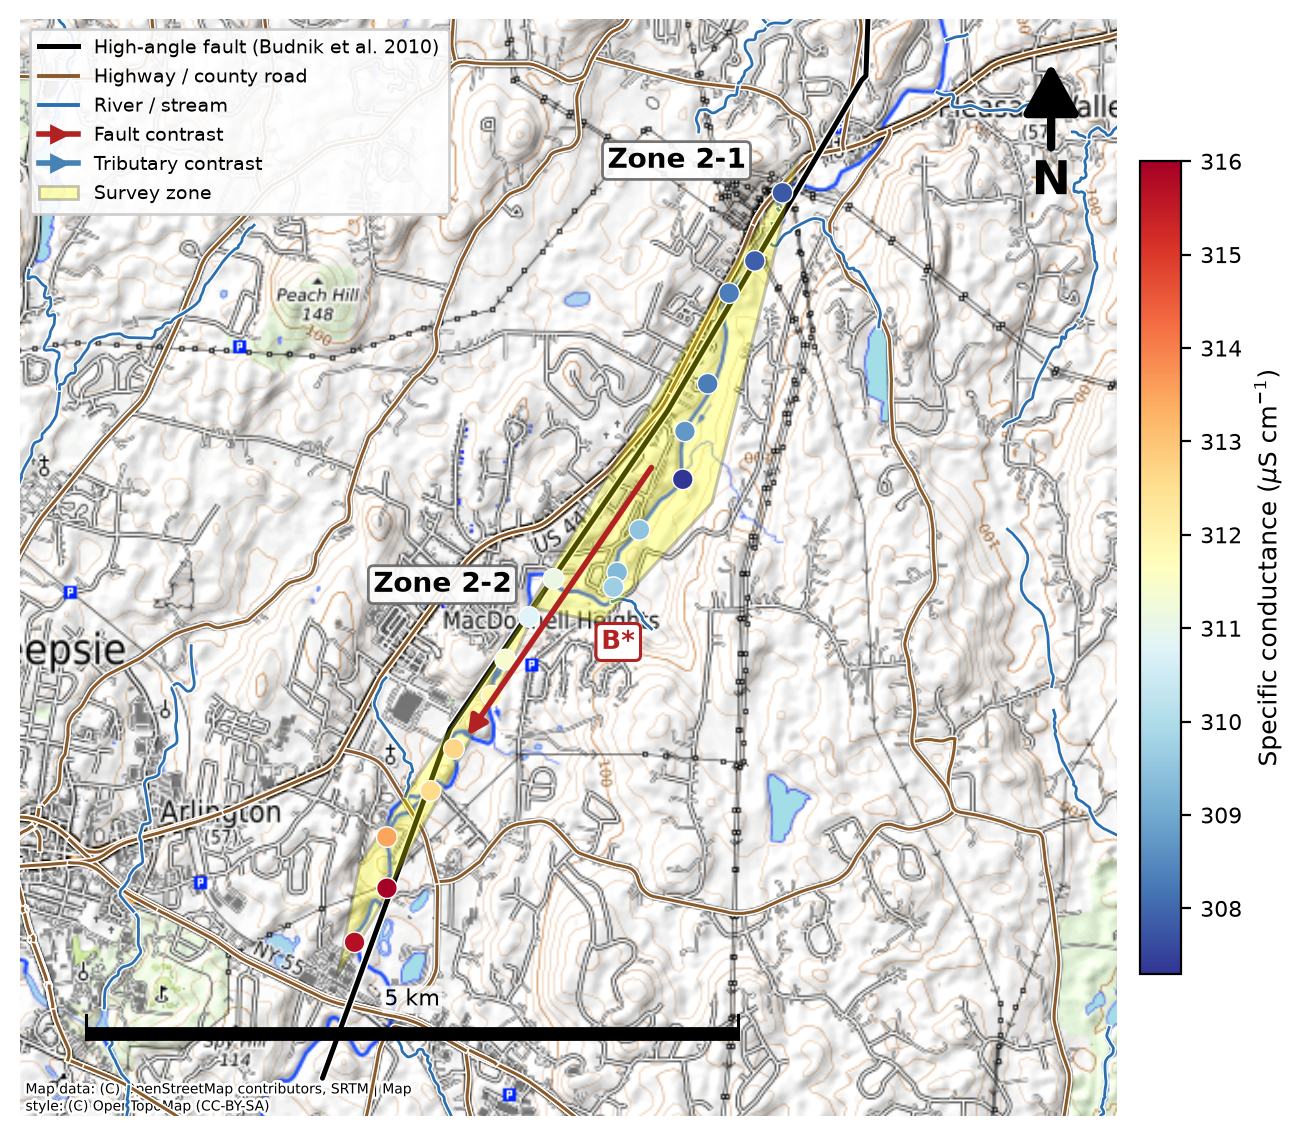
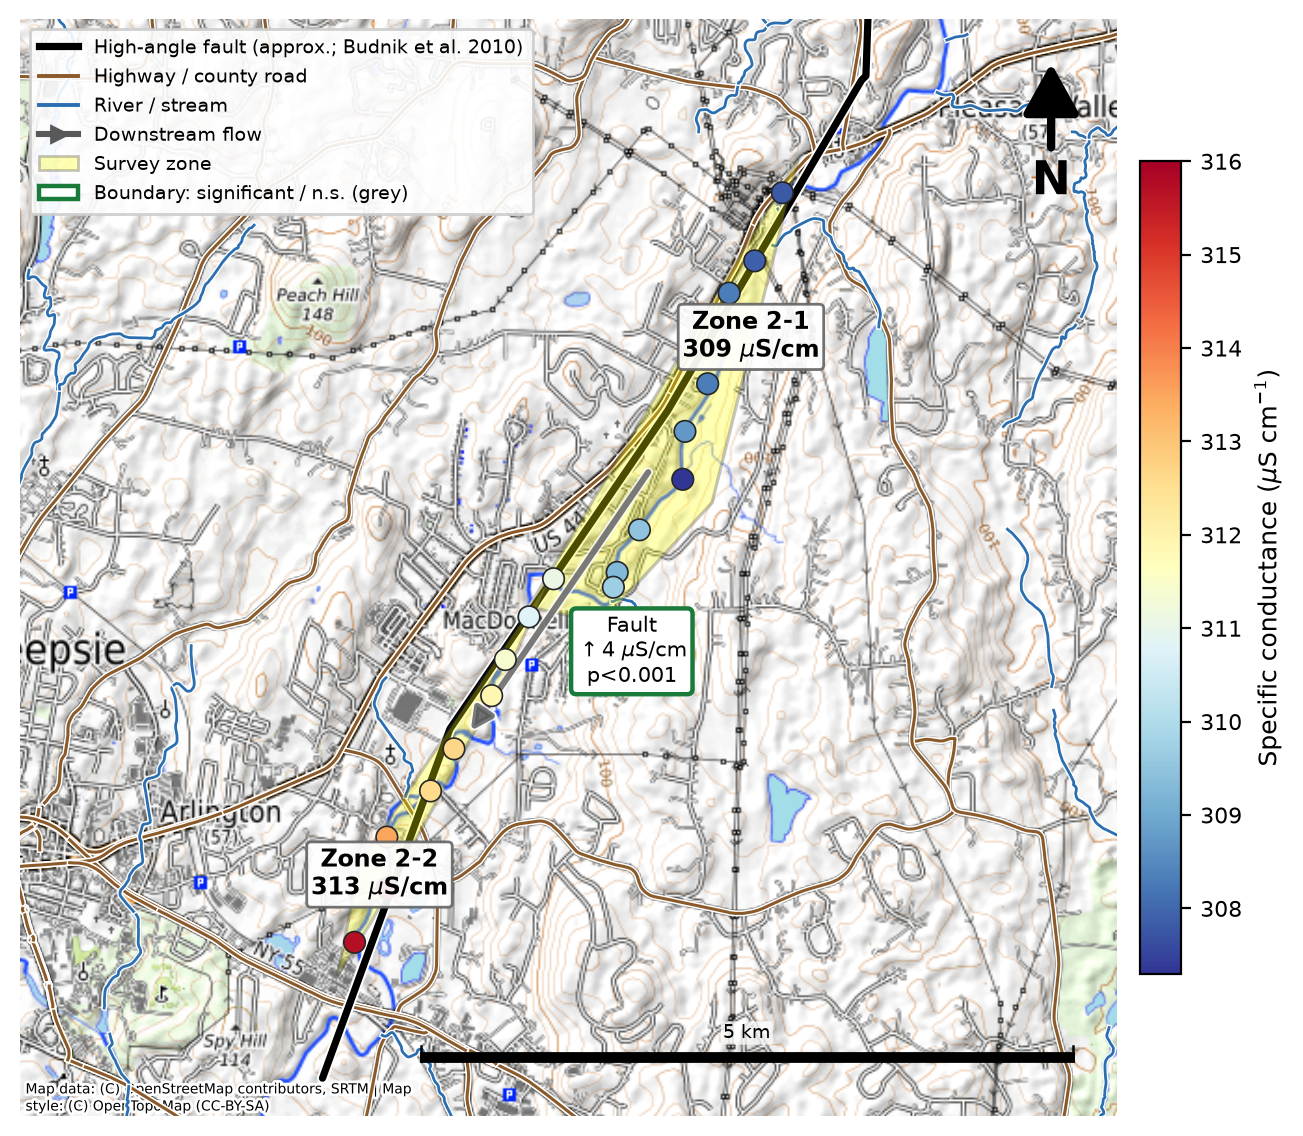
Site maps: clearer transitions, flow arrow, mean-EC labels, approximate faults
- Replace red/blue contrast arrows + cryptic "B*/Dn.s." codes with boxed
  boundary annotations stating the feature and the Welch result (delta EC + p;
  green outline = significant, grey = n.s.)
- Neutral grey downstream-flow arrow through the zones (decoupled from stats)
- Dots get a dark edge so mid-range (pale) colours stay visible on the terrain
- Zone labels splayed radially outward (fixes Site 3 overlap/clipping) and now
  show each zone's mean specific conductance
- Faults thicker and labelled "approximate" (legend + captions)
- Scale bar moved to bottom-right, smaller
- Rewrite site captions to match the new symbology

diff --git a/src/maps.py b/src/maps.py
@@ -131,25 +131,22 @@ def load_roads():
 
 
 def add_scalebar(ax, length_m, lat):
-    """Clean scale bar (bar + end ticks + label) sized to the axis extent.
-
-    ``length_m`` is a ground distance; it is drawn in Web-Mercator units,
-    correcting for the projection's latitude stretch.
-    """
+    """Small scale bar in the bottom-right corner (bar + end ticks + label)."""
     x0d, x1d = ax.get_xlim()
     y0d, y1d = ax.get_ylim()
     xr, yr = x1d - x0d, y1d - y0d
     w = length_m / math.cos(math.radians(lat))
-    x0 = x0d + 0.06 * xr
-    y0 = y0d + 0.07 * yr
-    th = 0.010 * yr
+    x1 = x1d - 0.04 * xr          # right-aligned
+    x0 = x1 - w
+    y0 = y0d + 0.05 * yr
+    th = 0.007 * yr
     ax.add_patch(plt.Rectangle((x0, y0), w, th, fc="black", ec="black", zorder=7))
     for xx in (x0, x0 + w):  # end ticks
-        ax.plot([xx, xx], [y0, y0 + 2.2 * th], color="black", lw=1.1, zorder=7)
+        ax.plot([xx, xx], [y0, y0 + 2.0 * th], color="black", lw=0.9, zorder=7)
     label = f"{length_m/1000:g} km" if length_m >= 1000 else f"{length_m:g} m"
-    ax.text(x0 + w / 2, y0 + 2.6 * th, label, ha="center", va="bottom",
-            fontsize=8, zorder=7,
-            bbox=dict(boxstyle="round,pad=0.12", fc="white", ec="none", alpha=0.75))
+    ax.text(x0 + w / 2, y0 + 2.4 * th, label, ha="center", va="bottom",
+            fontsize=7, zorder=7,
+            bbox=dict(boxstyle="round,pad=0.1", fc="white", ec="none", alpha=0.75))
 
 
 def north_arrow(ax):
@@ -163,7 +160,7 @@ def north_arrow(ax):
 
 
 def _round_scale(ground_half):
-    target = ground_half * 0.8
+    target = ground_half * 0.5  # ~25% of the map width -> compact bar
     for v in (100, 200, 500, 1000, 2000, 5000, 10000):
         if v >= target:
             return v
@@ -229,9 +226,11 @@ def _fault_line(ax, fault_pts, cx0, cy0, half):
     return True
 
 
-def draw_site(site, df, zframes, welch):
-    """Site map matching the overview style: OpenTopoMap terrain + TIGER roads
-    and rivers + traced Budnik faults + highlighted zones + EC-coloured dots."""
+def draw_site(site, df, zframes, cstats):
+    """Site map: OpenTopoMap terrain + TIGER roads/rivers + approximate Budnik
+    faults + highlighted zones (with mean EC) + EC-coloured dots. A neutral
+    grey arrow shows downstream flow; each boundary carries a box stating the
+    feature and the Welch t-test result (no cryptic codes)."""
     import pandas as pd
     import matplotlib.patheffects as pe
     zones = SITE_ZONES[site]
@@ -262,16 +261,16 @@ def draw_site(site, df, zframes, welch):
         rx, ry = zip(*[merc(lo, la) for lo, la in seg])
         ax.plot(rx, ry, color="#2b6fb0", lw=1.0, zorder=3, path_effects=halo(2.0))
 
-    # faults (traced Budnik lines, clipped to the site extent)
+    # faults (approximate; traced from Budnik 2010) -- thicker
     for coords in load_budnik_faults().values():
         fx, fy = zip(*[merc(lo, la) for lo, la in coords])
-        ax.plot(fx, fy, color="black", lw=1.8, solid_capstyle="round", zorder=4,
-                path_effects=halo(3.0))
+        ax.plot(fx, fy, color="black", lw=2.6, solid_capstyle="round", zorder=4,
+                path_effects=halo(4.0))
 
     ec_all = site_pts["EC"].to_numpy(dtype=float)
     norm = Normalize(vmin=ec_all.min(), vmax=ec_all.max())
 
-    # highlighted zones + labels; remember centroids for the contrast arrows
+    # highlighted zones, labelled with the zone id and its mean EC
     centroids = {}
     for z in zones:
         fr = zframes[z]
@@ -279,38 +278,58 @@ def draw_site(site, df, zframes, welch):
         xs, ys = np.array(xs), np.array(ys)
         for rx, ry in _runs(xs, ys):
             _zone_patch(ax, rx, ry, pad=span * 0.05)
-        ax.annotate(f"Zone {z}", (xs.mean(), ys.max()),
-                    textcoords="offset points", xytext=(0, 9),
-                    fontsize=10, fontweight="bold", zorder=7, ha="center",
-                    bbox=dict(boxstyle="round,pad=0.18", fc="white",
-                              ec="0.4", alpha=0.9))
         centroids[z] = (xs.mean(), ys.mean())
 
-    # survey points -- solid dots coloured by specific conductance
+    # zone labels (id + mean EC), splayed radially outward to avoid overlap
+    for z in zones:
+        zx, zy = centroids[z]
+        vx, vy = zx - cx0, zy - cy0
+        L = math.hypot(vx, vy) or 1.0
+        lx = min(max(zx + vx / L * span * 0.16, cx0 - half * 0.95), cx0 + half * 0.95)
+        ly = min(max(zy + vy / L * span * 0.16, cy0 - half * 0.9), cy0 + half * 0.9)
+        mean_ec = zframes[z]["EC"].astype(float).mean()
+        ax.annotate(f"Zone {z}\n{mean_ec:.0f} $\\mu$S/cm", (lx, ly),
+                    fontsize=8.5, fontweight="bold", zorder=8, ha="center",
+                    va="center",
+                    bbox=dict(boxstyle="round,pad=0.18", fc="white",
+                              ec="0.4", alpha=0.92))
+
+    # neutral downstream-flow arrow through the zone centroids (upstream->down)
+    path = [centroids[z] for z in zones if z in centroids]
+    for (xa, ya), (xb, yb) in zip(path[:-1], path[1:]):
+        ax.add_patch(FancyArrowPatch((xa, ya), (xb, yb), arrowstyle="-|>",
+                                     mutation_scale=16, color="0.35", lw=2.2,
+                                     zorder=5, shrinkA=18, shrinkB=18,
+                                     alpha=0.8, path_effects=halo(3.5)))
+
+    # survey points -- solid dots (dark edge so mid-range colours stay visible)
     for z in zones:
         fr = zframes[z]
         xs, ys = zip(*[merc(lo, la) for lo, la in zip(fr["lon"], fr["lat"])])
         ax.scatter(xs, ys, c=fr["EC"].to_numpy(dtype=float), cmap=EC_CMAP,
-                   norm=norm, s=55, edgecolor="white", linewidth=0.5, zorder=6)
+                   norm=norm, s=60, edgecolor="0.15", linewidth=0.6, zorder=6)
 
-    # contrast arrows (fault = red, tributary = blue) with Welch significance
+    # transition boxes at each boundary: feature + result (green=sig, grey=n.s.)
     for name, a, b, kind in CONTRASTS:
-        if a in centroids and b in centroids:
-            (xa, ya), (xb, yb) = centroids[a], centroids[b]
-            color = "firebrick" if kind == "fault" else "steelblue"
-            ax.add_patch(FancyArrowPatch((xa, ya), (xb, yb), arrowstyle="-|>",
-                                         mutation_scale=14, color=color, lw=2.0,
-                                         zorder=7, shrinkA=16, shrinkB=16))
-            sig = "*" if welch[name] < 0.05 else "n.s."
-            dx, dy = xb - xa, yb - ya
-            L = math.hypot(dx, dy) or 1.0
-            ox, oy = -dy / L, dx / L
-            off = half * 0.13
-            ax.text((xa + xb) / 2 + ox * off, (ya + yb) / 2 + oy * off,
-                    f"{name}{sig}", color=color, fontsize=9.5, fontweight="bold",
-                    zorder=9, ha="center", va="center",
-                    bbox=dict(boxstyle="round,pad=0.2", fc="white", ec=color,
-                              lw=1.1))
+        if a not in centroids or b not in centroids:
+            continue
+        r = cstats[name]
+        (xa, ya), (xb, yb) = centroids[a], centroids[b]
+        feat = "Fault" if kind == "fault" else "Tributary"
+        d = r["delta"]
+        sigcol = "#1a7a3a" if r["welch_p"] < 0.05 else "0.4"
+        psig = "p<0.001" if r["welch_p"] < 0.001 else f"p={r['welch_p']:.2f}"
+        arrow = "$\\uparrow$" if d > 0 else "$\\downarrow$"
+        dmag = "<1" if abs(d) < 1 else f"{abs(d):.0f}"
+        txt = f"{feat}\n{arrow}{dmag} $\\mu$S/cm\n{psig}"
+        dx, dy = xb - xa, yb - ya
+        L = math.hypot(dx, dy) or 1.0
+        ox, oy = -dy / L, dx / L
+        off = half * 0.16
+        ax.text((xa + xb) / 2 + ox * off, (ya + yb) / 2 + oy * off, txt,
+                color="black", fontsize=7.5, zorder=9, ha="center", va="center",
+                bbox=dict(boxstyle="round,pad=0.25", fc="white", ec=sigcol,
+                          lw=1.6))
 
     add_scalebar(ax, _round_scale(half * math.cos(math.radians(clat))), clat)
     north_arrow(ax)
@@ -319,16 +338,16 @@ def draw_site(site, df, zframes, welch):
     cb.set_label(r"Specific conductance ($\mu$S cm$^{-1}$)", fontsize=9)
     cb.ax.tick_params(labelsize=8)
     handles = [
-        Line2D([0], [0], color="black", lw=1.8,
-               label="High-angle fault (Budnik et al. 2010)"),
+        Line2D([0], [0], color="black", lw=2.6,
+               label="High-angle fault (approx.; Budnik et al. 2010)"),
         Line2D([0], [0], color="#8a5a2b", lw=1.4, label="Highway / county road"),
         Line2D([0], [0], color="#2b6fb0", lw=1.4, label="River / stream"),
-        Line2D([0], [0], color="firebrick", lw=2, marker=">",
-               label="Fault contrast"),
-        Line2D([0], [0], color="steelblue", lw=2, marker=">",
-               label="Tributary contrast"),
+        Line2D([0], [0], color="0.35", lw=2.2, marker=">",
+               label="Downstream flow"),
         Patch(facecolor="yellow", alpha=0.3, edgecolor="0.25",
               label="Survey zone"),
+        Patch(facecolor="white", edgecolor="#1a7a3a", lw=1.6,
+              label="Boundary: significant / n.s. (grey)"),
     ]
     ax.legend(handles=handles, loc="upper left", fontsize=7,
               framealpha=0.9, borderpad=0.5).set_zorder(10)
@@ -647,7 +666,7 @@ def _draw_overview_fallback(df, zframes):
 if __name__ == "__main__":
     df = load_salinity()
     zframes = zone_frames(df)
-    welch = {r["contrast"]: r["welch_p"] for r in analyze()}
+    cstats = {r["contrast"]: r for r in analyze()}
     draw_overview(df, zframes)
     for site in (1, 2, 3):
-        draw_site(site, df, zframes, welch)
+        draw_site(site, df, zframes, cstats)

diff --git a/main.tex b/main.tex
@@ -121,7 +121,7 @@ Site 1 was split into two zones (Zone 1-1 and Zone 1-2), with a single contrast 
 \begin{figure}[htbp]
 	\centering
 	\includegraphics[width=0.62\linewidth]{figures/site1.png}
-	\caption{A map of Site 1, and the surrounding topography. Each zone, labeled via site number -- zone number is represented via black rectangles, and each contrast is labeled via a blue letter with the comparison shown using blue arrows.}
+	\caption{Site 1 on a terrain base with highways/county roads (brown) and streams (blue). Survey points are coloured by specific conductance; shaded regions are the survey zones (labelled with their mean specific conductance). The grey arrow shows downstream flow, and the boxed annotation gives the Welch $t$-test result across the boundary (green outline = significant at $\alpha=0.05$, grey = not). High-angle faults (thick black lines) are approximate, digitized from \citet{budnik2010}.}
 	\label{fig:site1}
 \end{figure}
 
@@ -130,7 +130,7 @@ Site 2 (Figure~\ref{fig:site2}) has one contrast (Contrast B) between two zones 
 \begin{figure}[htbp]
 	\centering
 	\includegraphics[width=0.52\linewidth]{figures/site2.png}
-	\caption{A map of Site 2, and the surrounding topography. Each zone, labeled via site number -- zone number is represented via black rectangles, and each contrast is labeled via a blue letter with the comparison shown using blue arrows.}
+	\caption{Site 2, symbolised as in Figure~\ref{fig:site1}: terrain base, roads (brown) and streams (blue), survey points coloured by specific conductance, shaded survey zones (with mean specific conductance), downstream-flow arrow (grey), and the boundary Welch $t$-test result (green outline = significant). High-angle faults (thick black) are approximate, digitized from \citet{budnik2010}.}
 	\label{fig:site2}
 \end{figure}
 
@@ -139,7 +139,7 @@ Site 3 (Figure~\ref{fig:site3}) contains four zones (Zones 3-1, 3-2, 3-3, and 3-
 \begin{figure}[htbp]
 	\centering
 	\includegraphics[width=0.85\linewidth]{figures/site3.png}
-	\caption{A map of Site 3, and the surrounding topography. Each zone, labeled via site number -- zone number is represented via black rectangles, and each contrast is labeled via a blue letter with the comparison shown using blue arrows. The black Z and Z' are the starting and ending points of the chloride study demonstrated in Figure~\ref{fig:chloride}. The red star indicates the sampling point from the 32-year dataset introduced by Kelly et al. 2019 \citep{kelly2019}.}
+	\caption{Site 3, symbolised as in Figure~\ref{fig:site1}: terrain base, roads (brown) and streams (blue), survey points coloured by specific conductance, shaded survey zones (with mean specific conductance), downstream-flow arrow (grey), and the boundary Welch $t$-test results (green outline = significant, grey = not). The fault crossing between Zones 3-3 and 3-4 shows a significant increase; the tributary and the weaker fault crossing do not. High-angle faults (thick black) are approximate, digitized from \citet{budnik2010}.}
 	\label{fig:site3}
 \end{figure}
 
